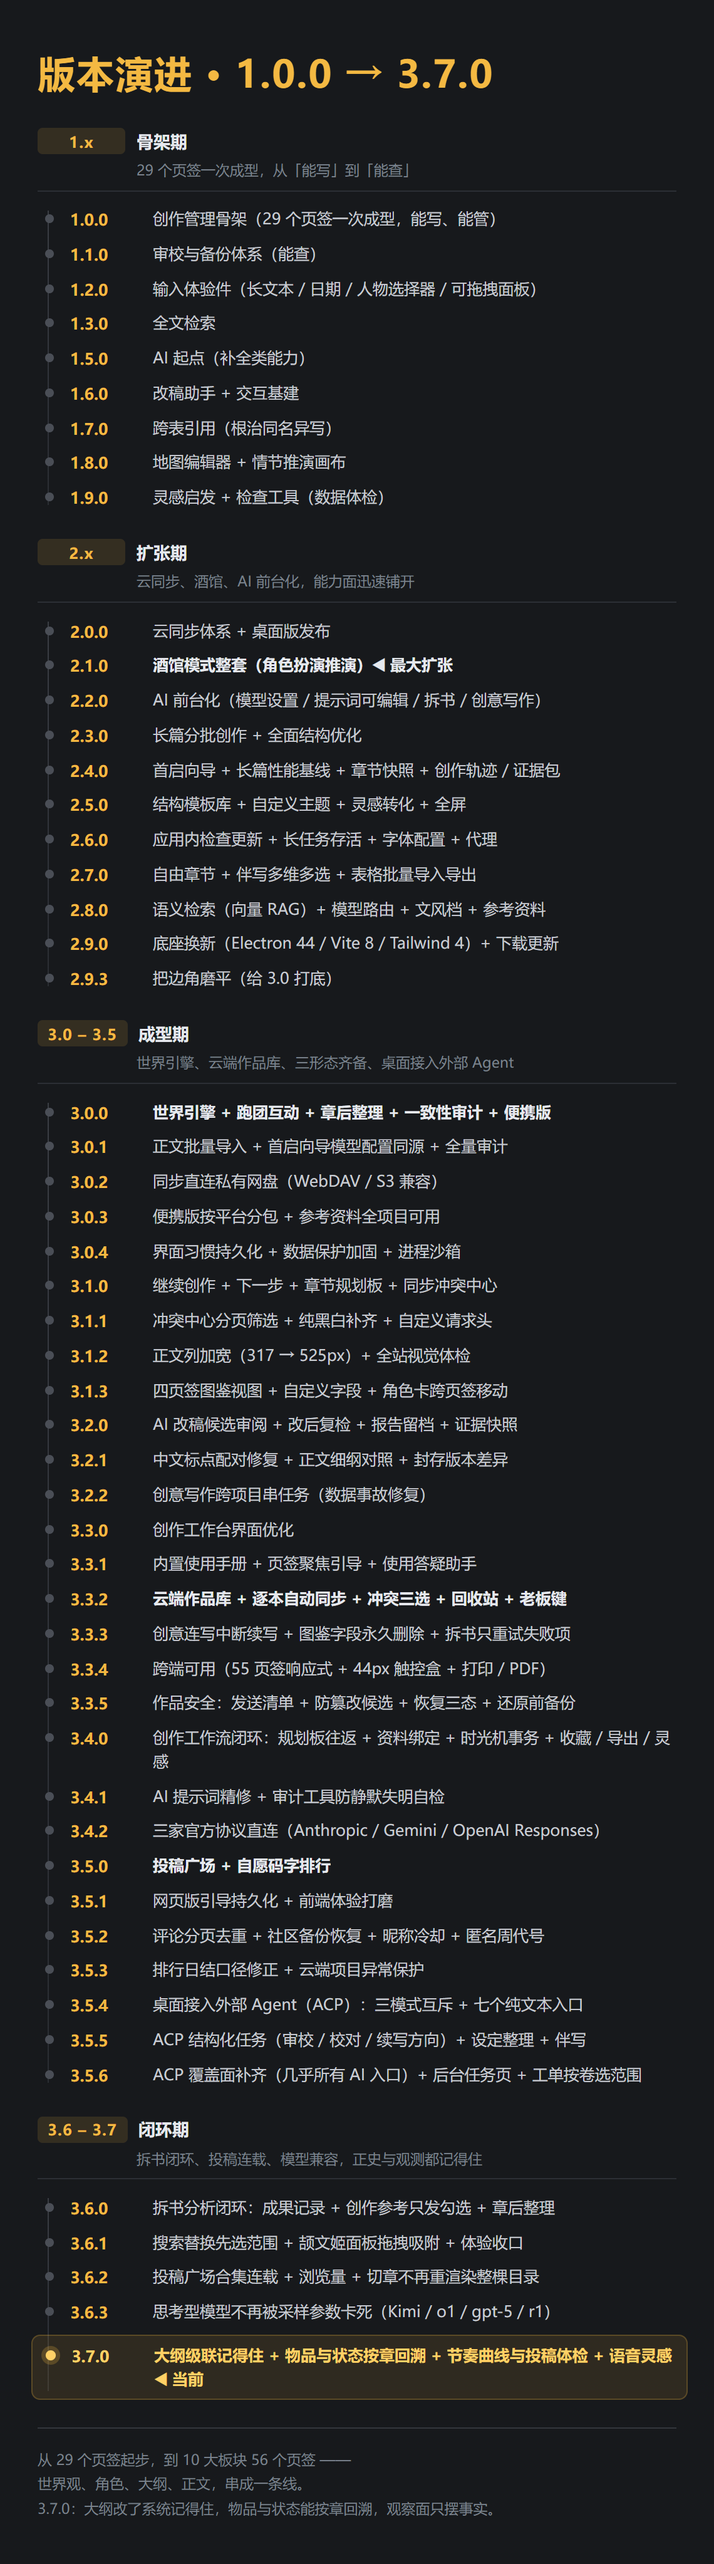
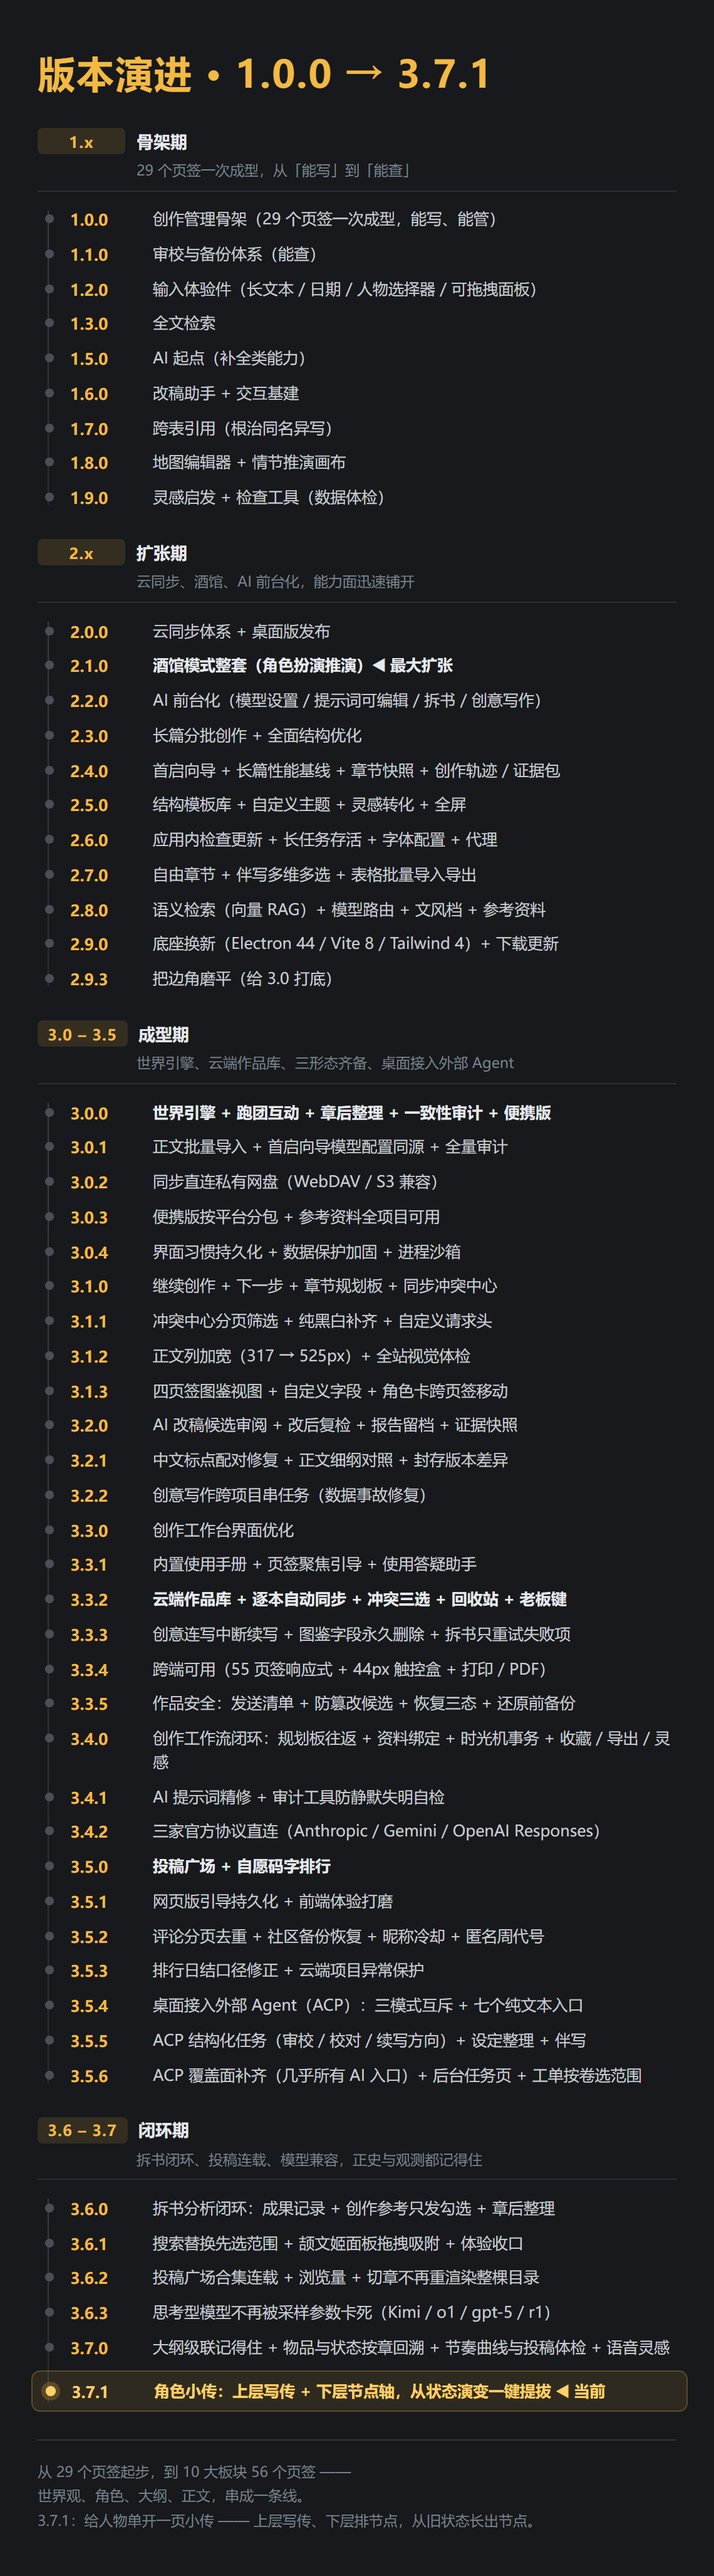
docs(3.7.1): 手册补版本变化篇 + 修检索阈值，README/更新说明/配图升到 3.7.1
手册：
- 新增 whats-new-371（角色小传 / 图鉴关联编辑 / 布局小修），CONTENT_VERSION 31 → 32；
- 🔴 补这篇时抓到一个真实回归：helpCenter「不给当前页签时也能检索到同一篇」红了 ——
  搜「角色」时《角色管理》主文章得分从 3.08 掉到 2.98，越过 MIN_HIT_SCORE=3。
  根因不是新文章抢了位置，而是索引多一篇含「角色」的文章 → 文档频率 +1 → idf 略降，
  而 3.08 本来就贴着门槛（余量 0.08）。任何一篇文章都可能压垮它。
  修法：MIN_HIT_SCORE 3 → 2.5（命中标题+关键词+正文本就该算找到），
  「不该命中」仍由 strong 判据拦住，不靠分数；并把新篇的标题/关键词/段落标题里
  的泛词「角色」去掉（正文保留），避免同类竞争。

README：
- 顶部加 3.7.1 主线（角色小传），3.7.0 那行改「3.7.0 起」；
- 「值得一提的设计」补角色小传；
- 版本演进表补 3.7.1 行；
- 「本版重点」整节由 3.7.0 换成 3.7.1（4 条 ⭐ + 验证与边界 📌）；
- 版本演进配图 rows 补 3.7.1、标题改 → 3.7.1、页脚改 3.7.1，重渲染（54 个版本 / 2051px）。

新增 docs/归档/3.7/3.7.1-更新说明-2026-11-25.md（同时用作 Release 正文）。

门禁：tsc 0 / eslint 0 / 全量 **524/524**（helpCenter 47/47）

diff --git a/src/lib/help/articles/version.ts b/src/lib/help/articles/version.ts
@@ -80,4 +80,63 @@ export const VERSION_ARTICLES: HelpArticle[] = [
     verifiedAgainst: '3.7.0',
     reviewedAt: '2026-11-24',
   },
+  {
+    id: 'whats-new-371',
+    revision: 2,
+    title: '3.7.1：给人物单开一页小传',
+    summary: '新增一个页签：上层写传、下层排节点；可从状态演变提拔节点，AI 整理只追加不覆盖；图鉴详情可直接改关联。',
+    aliases: ['更新说明', '新功能', '3.7.1', '小传'],
+    /**
+     * 🔴 2026-11-25：标题 / 关键词 / 段落标题**刻意不含「角色」**这个泛词。
+     *    检索是 MAX_HITS=5 的截断排序，本版文章若在 title+keywords+heading 三处都命中「角色」，
+     *    得分会盖过《角色管理》主文章，把真正该给的操作入口挤出前五
+     *    （helpCenter「不给当前页签时也能检索到同一篇」当场抓红）。
+     *    正文里照常写「角色小传」—— 只命中正文时权重低一档，搜「角色」先给主文章、
+     *    搜「小传」或精确词时才轮到本篇。
+     */
+    keywords: ['3.7.1', '小传', '节点事件轴', '前传', '状态演变', '图鉴关联', '保密等级', '导出 Markdown'],
+    group: '快速开始',
+    tabIds: ['char-bio'],
+    availability: 'all',
+    aiRequirement: 'none',
+    sections: [
+      {
+        id: 'what',
+        heading: '新页签：人物小传',
+        body: [
+          '角色管理下多了一个「角色小传」页签（默认勾选，可在项目设置里取消）。它服务主要角色与次要角色：左边选人，右边分两层 —— 上层是小传正文，随便分段写完整人物传记；下层是「重要节点事件轴」。',
+          '节点分两段：开篇之前的前传，和正文第 N 章。前传节点可以手动上移下移；带章号的节点按章号自动排，点「原文」直接跳回那一章。',
+        ],
+      },
+      {
+        id: 'fill',
+        heading: '内容从哪来：提拔、整理、起草',
+        body: [
+          '已有 3.7.0 的状态演变记录时，可以把其中关键状态一键提拔成小传节点，这条不消耗 AI 额度。',
+          '也可以让「AI 从正文整理节点」或颉文姬「整理」抽出里程碑候选 —— 勾选之后**只追加、不覆盖**已有正文与节点。',
+          '「AI 起草 / 续写小传」只生成预览，由你决定追加到末尾、替换还是放弃。单个角色可以导出 Markdown。',
+        ],
+      },
+      {
+        id: 'atlas',
+        heading: '图鉴详情可直接改关联',
+        body: [
+          '图鉴的详情面板里，跨表关联与角色关联现在能直接编辑，不用绕回表格页签改单元格；保密等级每个选项都补了说明，选之前能看清差别。',
+        ],
+      },
+      {
+        id: 'fix',
+        heading: '顺带修掉的',
+        body: [
+          '角色小传与角色关系两处的布局、按钮规范统一了（带文字的按钮不再用幽灵样式），节点类型支持自定义。',
+          '修掉角色卡之间的跳转与选择逻辑，以及按别称搜索时与小传条目对不上、折叠状态错乱的问题。',
+          '示范项目补齐了 11 名角色的完整小传，可以直接打开看结构。',
+        ],
+      },
+    ],
+    related: ['char-bio-guide'],
+    actions: [{ label: '打开角色小传', tabId: 'char-bio' }],
+    verifiedAgainst: '3.7.1',
+    reviewedAt: '2026-11-25',
+  },
 ]

diff --git a/src/lib/help/search.ts b/src/lib/help/search.ts
@@ -17,7 +17,17 @@ import { HELP_INDEX } from '@/lib/help/registry'
  * 🔴 取值来自实测：正常问题的命中分在 20～36 之间；而「量子纠缠的退相干时间」这类无关问题
  *    靠「时间」两个字蹭到《时间脉络》，只有 3～8 分。门槛放在 10 能把后者挡掉，又不误伤前者。
  */
-export const MIN_HIT_SCORE = 3
+/**
+ * 命中门槛。
+ *
+ * 🔴 2.5 而不是 3（2026-11-25 · 3.7.1 调）：搜「角色」时《角色管理》主文章的得分是 2.98 ——
+ *    它命中标题(6)+关键词(4)+正文(1)，只是**段落标题**没出现该词，本来就该算找到了。
+ *    3 这个门槛把它卡在门外，而且余量只有 0.02：手册多出一篇提到「角色」的文章，
+ *    文档频率一变、idf 略降，它就掉出结果（3.7.1 新增版本变化篇时当场抓红）。
+ *    ⇒ 门槛下调 0.5，给泛词查询留出余量；「不该命中」仍由 strong 判据
+ *      （必须命中标题 / 关键词 / 段落标题里的实词）拦住，不靠分数。
+ */
+export const MIN_HIT_SCORE = 2.5
 
 /** 一次最多返回几个片段 */
 export const MAX_HITS = 5

diff --git a/src/lib/help/registry.ts b/src/lib/help/registry.ts
@@ -30,7 +30,8 @@ import { ARTEFACT_ARTICLES } from '@/lib/help/articles/artefacts'
 import { COMMUNITY_ARTICLES } from '@/lib/help/articles/community'
 
 /** 整套内容的版本：正文、目录、索引必须同版本，否则来源引用不可信 */
-export const CONTENT_VERSION = 31
+// 32（2026-11-25 · 3.7.1）：新增 whats-new-371 篇（角色小传 / 图鉴关联编辑 / 布局小修）。
+export const CONTENT_VERSION = 32
 
 /** 这套内容核对时对应的软件版本 */
 export const SUPPORTED_APP_VERSION = '3.7.1'

diff --git a/README.md b/README.md
@@ -13,7 +13,8 @@
 🖥 三种形态：**桌面安装版**（免 Node，双击安装）　｜　**便携版**（U 盘即走，需 Node.js）　｜　**网页版**（免安装，游客本地存 / 登录账号云端存）
 🌐 网页版直达：<https://youth-fantasy-engine.online>（浏览器打开就能写，不用装任何东西）
 🔗 3.3.2 起：**同一个账号，桌面、网页、换台电脑，接着上一句写**（云端作品库 · 逐本自动同步 · 冲突由你选 · 删了能捞回）
-📌 3.7.0：**大纲改了系统记得住**（未来章待重审 · 已写章只列建议 · 候选主动过期）· **物品与状态按章回溯** · **节奏曲线与投稿体检**（只摆事实，不评分）· **语音灵感**（需自备 OpenAI 兼容转写服务）
+📌 3.7.1：**给人物单开一页小传**（上层写传记 · 下层排节点轴 · 从状态演变一键提拔 · AI 整理只追加不覆盖）
+📌 3.7.0 起：**大纲改了系统记得住**（未来章待重审 · 已写章只列建议 · 候选主动过期）· **物品与状态按章回溯** · **节奏曲线与投稿体检**（只摆事实，不评分）· **语音灵感**（需自备 OpenAI 兼容转写服务）
 
 </div>
 
@@ -90,6 +91,7 @@
 - **一键拆书** —— 丢一本参考书进去，自动抽取人物、关系、设定，做成你自己的素材库。
 - **酒馆模式** —— 让 AI 扮演你书里的角色跟你对话、推演剧情，用来找感觉、验人设。
 - **伴写建议** —— 正文编辑时给出「下一句可以怎么写」的建议，你采纳或忽略，它不会替你写。
+- **角色小传，一个人一页**（3.7.1）—— 上层写完整传记、下层按「前传 / 第 N 章」排节点，带章号的节点能跳回原文；已有的状态演变可以一键提拔成节点，AI 整理只追加、不覆盖。
 - **大纲改了，后面会提醒你**（3.7.0）—— 总纲 / 卷纲 / 细纲改动后，未开写的章纲打「待重审」并附改前改后片段；已写章只列建议复核，系统不动你的章纲。
 - **物品与状态能按章回溯**（3.7.0）—— 物品流转必须带正文原句才能记账，人物状态变化留旧值，随时能问「第 N 章时是什么状态」。
 - **观察面只摆事实**（3.7.0）—— 全书逐章节奏曲线与投稿体检一页，不合成总分、不划区间、不做名次，没跑过的项写「未跑」。
@@ -417,16 +419,15 @@ youth-fantasy-engine/
 | **3.6.2** | **投稿广场能连载了**：新增**合集**（建集、把以前发的稿子归进去、按第 1 篇起的顺序连着读、作者可手动排序、撤回或下架的篇目跳号而不假装连续）+ 每篇显示**浏览量** + 修编辑器「切一章重渲染整棵 800 行目录」的老问题。另含固定采样模型热修（随 3.6.3 彻底解决）。详见 [3.6.2 更新说明](docs/归档/3.6/3.6.2-更新说明-2026-11-21.md)。 |
 | **3.6.3** | **接思考型模型不再被参数卡死**：Kimi `kimi-k2.* / kimi-k3`、o1 / gpt-5 / deepseek-r1 这类把采样参数锁死的模型，本软件此前不管接谁都带温度，于是 `400 invalid temperature`。三层防线：**按模型名识别**（命中即不发温度 / top_p / 惩罚，而不是改成 1）+ **作者开关**（模型编辑里可手动勾「不发送采样参数」）+ **会话记忆**（撞一次 400 后本会话记住，不再每次都多打一次）。**数据格式没有变化**，覆盖安装即可。详见 [3.6.3 更新说明](docs/归档/3.6/3.6.3-更新说明-2026-11-23.md)。 |
 | **3.7.0** | **正史变了，系统记得住**：**大纲改动 → 未来章待重审**（附「改前 → 改后」引用片段，核对完点「已处理」；系统不改你的章纲）+ **已写章只列建议** + **候选 / 报告主动过期**（正文、细纲、本章固定资料任一变化就标「已过期」并写原因，只提示不自动改卡）+ **物品流转账本**（必须带正文原句才能勾选写入，图鉴物品新增「流转记录」）+ **状态演变按章回溯**（旧值留痕，`stateAt` 回溯到第 N 章）+ **全书逐章节奏曲线**（字数 / 对话占比 / 段长 / 距上个爽点，不合成总分、不排名次）+ **投稿体检一页**（汇总已跑过的结论，没跑过的写「未跑」，可存 JSON）+ **语音灵感**（需自备 OpenAI 兼容 `/audio/transcriptions`，音频不留存）+ EPUB 导出含未分卷章节 + 页签页头统一。⚠ 语音转写真机仍需你自备可用 Key。详见 [3.7.0 更新说明](docs/归档/3.7/3.7.0-更新说明-2026-11-23.md)。 |
+| **3.7.1** | **给人物单开一页小传**：角色管理下新增「**角色小传**」页签（默认勾选，可在项目设置里取消）—— 上层小传正文随便分段，下层「重要节点事件轴」分「开篇前（前传）」与「正文第 N 章」，前传节点可手动调序、带章号节点按章号升序且能点「原文」跳回那一章；已有 **3.7.0 状态演变可零消耗提拔**成节点，AI 从正文整理 / 颉文姬「整理」抽出里程碑候选**只追加不覆盖**，AI 起草与续写只出预览，单角色可导出 Markdown；**图鉴详情面板可直接编辑跨表与角色关联**、保密等级每个选项补了说明；角色小传与角色关系的布局与按钮规范统一（带文字按钮不再用幽灵样式）、节点类型支持自定义、示范项目补齐 11 名角色小传；修掉角色卡跳转与选择逻辑、按别称搜索时与小传条目对不上且折叠状态错乱。**数据格式没有变化**，覆盖安装即可。详见 [3.7.1 更新说明](docs/归档/3.7/3.7.1-更新说明-2026-11-25.md)。 |
 
-### 3.7.0 本版重点（正史记得住 · 按章可回溯 · 只摆事实 · 语音灵感）
+### 3.7.1 本版重点（一个人一页 · 从旧状态长出节点 · 只追加不覆盖）
 
-- ⭐ **大纲改了，系统记得住**：总纲、卷纲、细纲保存后，受影响的「还没开写」章纲会被标记，并附「改前 → 改后」的引用片段；核对完点「已处理」即可清除，**系统不会改你的章纲**。总纲 / 卷纲波及已写章时，只生成「已写章节建议复核」清单，不替你判断哪一章真的受影响。章后整理确认入库后也会提醒一次。
-- ⭐ **候选会主动过期，而不是装没事**：正文、细纲、本章固定资料任一变化后，待审候选被标「已过期」并写明原因；剧情候选还比对所属章正文；推演卡与对照报告会显示「来源已变化 / 报告基于旧稿」。这些都**只提示**，不自动改卡、不删候选、不重写正文。
-- ⭐ **物品与状态能按章回溯**：章后整理新增「物品流转」（获得 / 失去 / 转移 / 消耗），**必须带正文原句才能勾选写入**，物品未登记时只提示「先登记物品」，不凭空建条目；连续性检查会比对「第 N 章写着某物在某人之手」与账本归属；状态与关系变化确认后额外记一条「第 N 章时是什么状态」（旧值一并留痕），物品、势力、关系行与角色卡详情都有同一套「状态演变」列表与手动补登（这几类不自动记，由你决定哪次变化值得留痕）。
-- ⭐ **观察面只摆事实**：检查工具新增**全书逐章节奏曲线**（字数 / 对话占比 / 平均段长 / 距上个爽点，爽点按登记强度打点，**不合成总分、不划区间、不做名次**）与**投稿体检一页**（汇总已跑过的开篇结论、平台观察、正文事实与待办条数，注明来源与时间；没跑过的项写「未跑」，不会替你补跑）。跑过「黄金三章」后，开篇结论会存进本项目并在此页直接引用原话（注明 AI 定性意见、仅供参考）。
-- ⭐ **语音灵感（需自备服务）**：灵感夹与随手记的「语音」可录音转文字。需先在「模型设置 → 语音转写」填服务地址、API Key 与模型名，**仅支持 OpenAI 兼容的 `/audio/transcriptions`，不内置任何服务商预设**。录音必须显式开始 / 结束，上限 120 秒或 10MB（先到先停）；**音频只发送到你填写的服务，本应用不留存、不进备份、不进云同步、不进诊断信息**，失败即弃并提示重试；未配置时按钮不可用并写明原因。
-- ⭐ **修掉的问题**：EPUB 导出**包含未分卷章节**（与 TXT / MD 口径一致，不再静默少章）；写作途中新增的设定 / 别称不用重进编辑器就参与高亮；**页签页头统一**（标题 20px / 半粗、说明 13px 单行省略、吸顶浅底与细分隔线，不再「有的有背景填充、有的没有」）；网页更新横幅的 `92vw` 改为按缩放折回、节奏曲线 SVG 颜色改走 `style`（高缩放不再溢出、颜色不再回退黑 / 透明）；**版本清单允许跨域读取** —— 便携版与桌面版的「检查更新」此前一启动就被浏览器 CORS 拦下、只能回落受限流的 Gitee，现在能正常读清单并做安装包 sha256 校验。
-- 📌 **验证与边界**：类型检查与 lint 通过、全量单测 **522/522**、服务端自检 19/19、发版产物检查 FAIL 0；三形态实机探针 **安装版 17/17 · 便携版 17/17 · 网页版 16/16**。**未覆盖**：语音转写真机链路（本次环境无可用转写服务，转写请求记「未跑：缺转写服务」，只验了录音入口与配置闸）；「审读记录」「章后整理」两个子面板位置随视图变化，需人工点一次确认；超长篇在真实模型下的效果未做盲评。
+- ⭐ **角色小传：上层写传、下层排节点**：角色管理下新增页签（默认勾选，可在项目设置里取消）。上层是小传正文，随便分段写完整人物传记；下层「重要节点事件轴」分「开篇前（前传）」与「正文第 N 章」两段 —— 前传节点可手动上移下移，带章号的节点按章号自动对齐，点「原文」直接跳回那一章。
+- ⭐ **内容从三处来，都不覆盖你写的**：① 已有的 3.7.0 状态演变可**零消耗提拔**成节点；② 「AI 从正文整理节点」或颉文姬「整理」抽出里程碑候选，勾选后**只追加**；③ 「AI 起草 / 续写小传」只生成预览，由你决定追加、替换还是放弃。单角色可导出 Markdown。
+- ⭐ **图鉴详情能直接改关联**：跨表关联与角色关联在详情面板里就能改，不用绕回表格页签改单元格；保密等级每个选项都补了说明，选之前能看清差别。
+- ⭐ **顺带修掉的**：角色小传与角色关系的布局、按钮规范统一（带文字的按钮不再用幽灵样式）；节点类型支持自定义；示范项目补齐 11 名角色完整小传；修掉角色卡跳转与选择逻辑、按别称搜索时与小传条目对不上且折叠状态错乱。
+- 📌 **验证与边界**：类型检查与 lint 通过、全量单测 **524/524**、六维 + 全量审计 `complete`（1003 个文件 / 0 候选 / 26 项工具自检通过）、红线 11–15 全部 0、结构化提示词输出约束 P4 **0/42**；发布前三形态实机探针结果见发布记录。**未覆盖**：语音转写真机链路仍需你自备可用 Key；单个角色数十万字的超长传记未做性能压测。
 
 **更早版本的重点**：3.3.5 – 3.5.2 见 [`docs/归档/3.5/README-历史版本说明-归档-3.3.5-3.5.2.md`](docs/归档/3.5/README-历史版本说明-归档-3.3.5-3.5.2.md)，2.3.0 – 3.3.4 见 [`docs/归档/3.4/README-历史版本说明-归档.md`](docs/归档/3.4/README-历史版本说明-归档.md)（均为一字未改的原文）。
 

diff --git a/docs/归档/3.7/3.7.1-更新说明-2026-11-25.md b/docs/归档/3.7/3.7.1-更新说明-2026-11-25.md
@@ -1,0 +1,34 @@
+# 青春幻想引擎 3.7.1 更新说明（2026-11-25）
+
+> 从 3.7.0 直接升级，覆盖安装即可。本版只加了一个页签、修了几处布局与跳转，**数据格式没有变化**。
+
+## 一、新页签：角色小传
+
+角色管理下多了「角色小传」（默认勾选，可在项目设置里取消），服务主要角色与次要角色：左边选角色，右边分两层。
+
+- **上层：小传正文** —— 随便分段，写完整的人物传记，不受节点结构限制。
+- **下层：重要节点事件轴** —— 分「开篇前（前传）」与「正文第 N 章」两段。前传节点可手动上移下移；带章号的节点按章号升序自动对齐，点「原文」直接跳回那一章。
+
+## 二、内容从哪来：提拔、整理、起草
+
+- **从状态演变提拔**：3.7.0 记下的状态演变，可以把其中关键状态一键提拔成小传节点，**这条不消耗 AI 额度**。
+- **AI 从正文整理节点**：也可以走颉文姬「整理」，抽出里程碑候选 —— 勾选之后**只追加、不覆盖**已有正文与节点。
+- **AI 起草 / 续写小传**：只生成预览，由你决定追加到末尾、替换还是放弃。单个角色可导出 Markdown。
+
+## 三、图鉴详情可直接改关联
+
+- 图鉴的详情面板里，**跨表关联与角色关联现在能直接编辑**，不用绕回表格页签改单元格。
+- 保密等级的每个选项都补了说明，选之前能看清差别。
+
+## 四、小修
+
+- **布局与按钮规范统一**：角色小传与角色关系两处的间距、按钮层级收口（带文字的按钮不再用幽灵样式）。
+- **节点类型支持自定义**：不再只有固定的几类，可自行增补。
+- **示范项目补齐 11 名角色的完整小传**，打开就能看结构。
+- **修掉三处**：角色卡之间的跳转、角色选择逻辑、按别称搜索时与小传条目对不上且折叠状态错乱。
+
+## 验证与边界
+
+- 类型检查 0、lint 0、全量单测 **524/524**、六维 + 全量审计 `complete`（1003 个文件 / 0 候选 / 26 项工具自检通过）、红线 11–15 全部 0、结构化提示词输出约束 P4 **0/42**。
+- 发布前三形态（安装版 / 便携版 / 网页版）实机探针在本版发布流程中完成，结果见发布记录。
+- **未覆盖**：语音转写真机链路仍需要你自备可用 Key（本版只验录音入口与配置闸）；角色小传的超长传记（数十万字单角色）没有做过性能压测。
